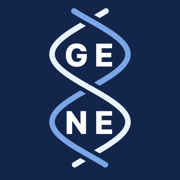
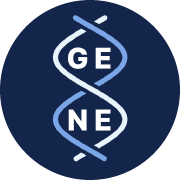
파비콘 변경

diff --git a/src/pages/main/Main.tsx b/src/pages/main/Main.tsx
@@ -114,11 +114,12 @@ function Main() {
     <div className={styles.page}>
       <main className={styles.main}>
         <section className={styles.hero}>
-          <h1 className={styles.title}>신뢰를 바탕으로 합니다</h1>
+          <h1 className={styles.title}>신뢰를 바탕으로</h1>
           <p className={styles.subtitle}>유전자 데이터로 완성하는 초개인화 보험</p>
           <p className={styles.desc}>
-            비대면 타액(DNA) 검사 결과와 건보공단 마이데이터 검진 이력을 결합하여 불필요한 보장은
-            덜어내고 꼭 필요한 질병 보장만 정밀 설계합니다.
+            비대면 타액(DNA) 검사와 건보공단 마이데이터 검진 이력을 결합해
+            <br />
+            불필요한 보장은 덜고, 꼭 필요한 질병 보장만 정밀 설계합니다.
           </p>
         </section>
 

diff --git a/index.html b/index.html
@@ -3,9 +3,9 @@
   <head>
     <meta charset="UTF-8" />
     <!-- ?v= 를 올리면 브라우저에 남은 예전 파비콘 캐시를 무시함 -->
-    <link rel="icon" type="image/svg+xml" href="/favicon.svg?v=3" />
-    <link rel="icon" type="image/png" sizes="32x32" href="/favicon-32.png?v=3" />
-    <link rel="apple-touch-icon" href="/apple-touch-icon.png?v=3" />
+    <link rel="icon" type="image/svg+xml" href="/favicon.svg?v=4" />
+    <link rel="icon" type="image/png" sizes="32x32" href="/favicon-32.png?v=4" />
+    <link rel="apple-touch-icon" href="/apple-touch-icon.png?v=4" />
     <meta name="viewport" content="width=device-width, initial-scale=1.0" />
     <title>내 GENE 설계</title>
   </head>

diff --git a/src/pages/main/style.module.css b/src/pages/main/style.module.css
@@ -89,10 +89,12 @@
   color: transparent;
 }
 
+/* 넓은 화면에서는 <br> 기준으로 딱 두 줄 */
 .desc {
-  max-width: 480px;
+  white-space: nowrap;
   margin-top: 24px !important;
-  font-size: 18px;
+  /* 두 열 화면이 좁아져도 두 줄이 칸을 넘지 않도록 글자를 살짝 줄임 */
+  font-size: clamp(15px, 1.5vw, 18px);
   line-height: 1.8;
   color: var(--body);
 }
@@ -244,7 +246,12 @@
   }
 
   .desc {
-    max-width: none;
+    white-space: normal;
+    font-size: 18px;
+  }
+
+  .desc br {
+    display: none;
   }
 }
 
